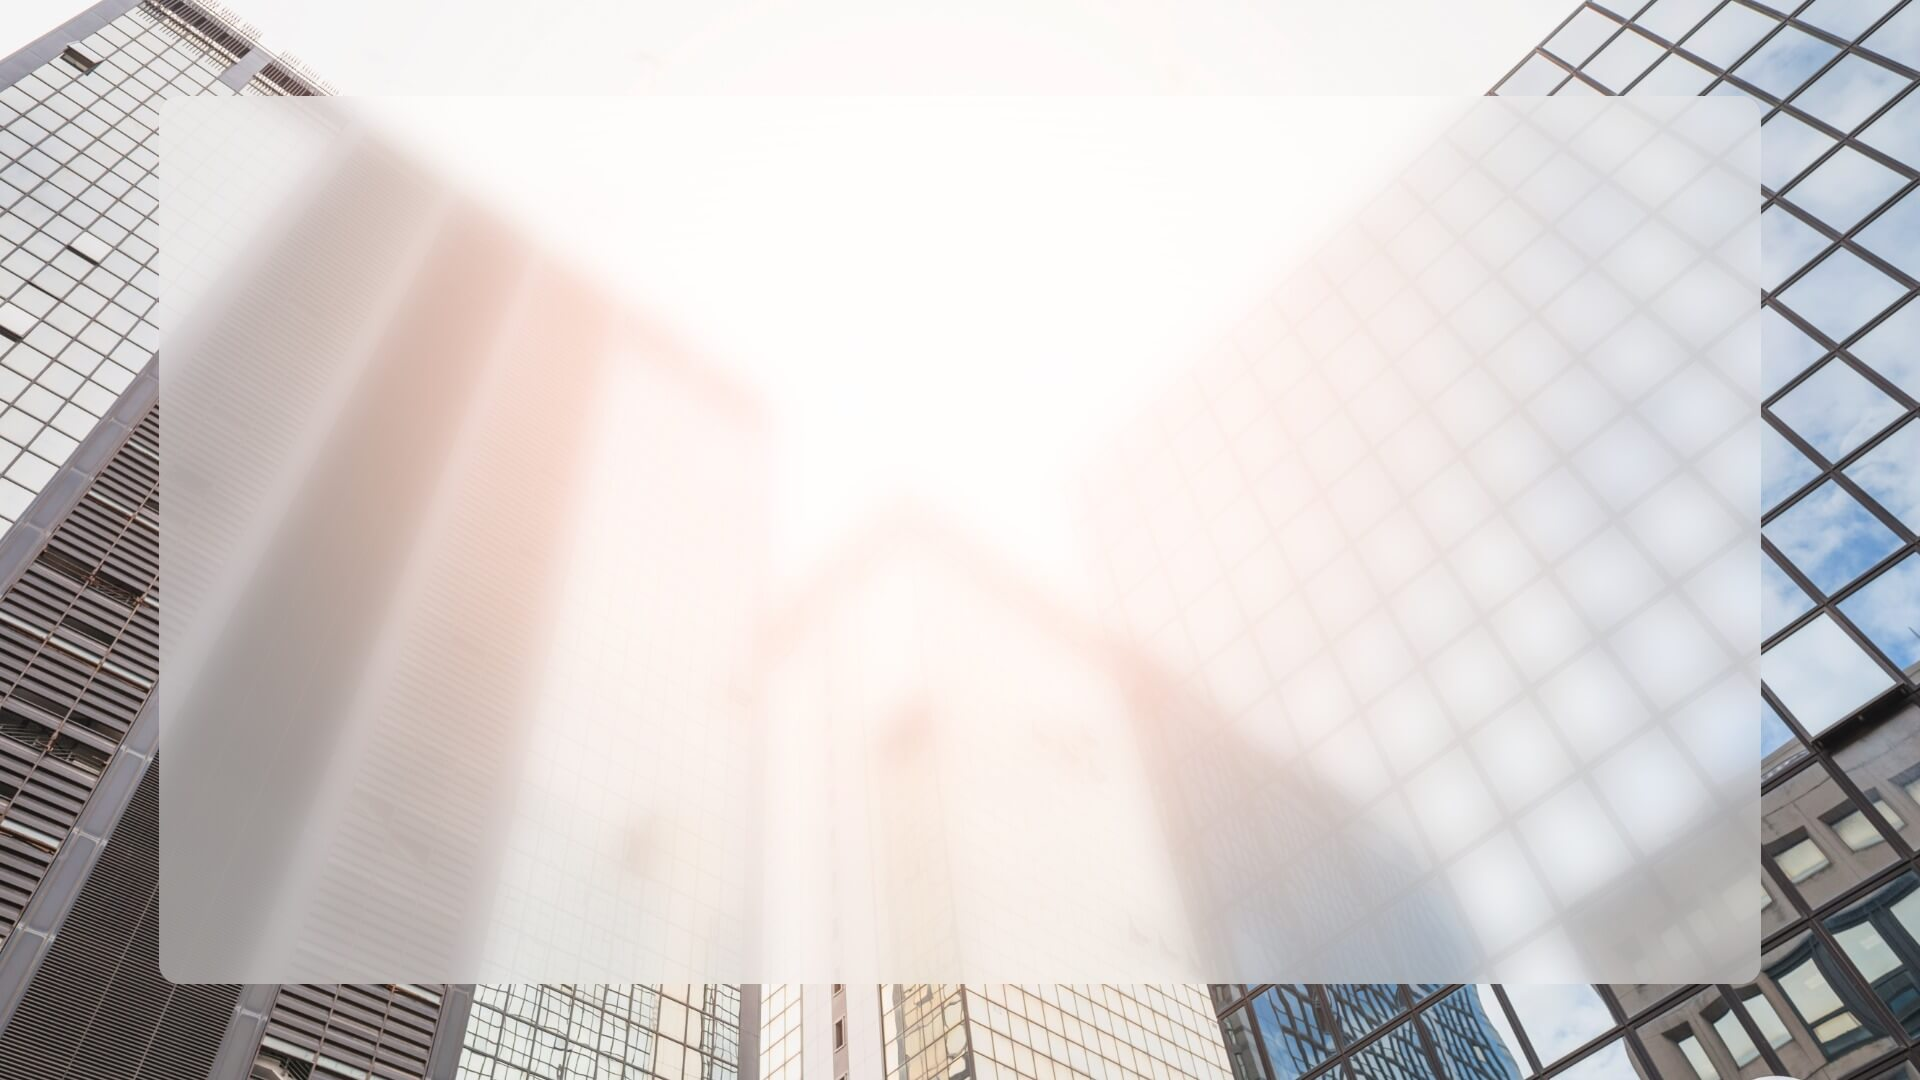
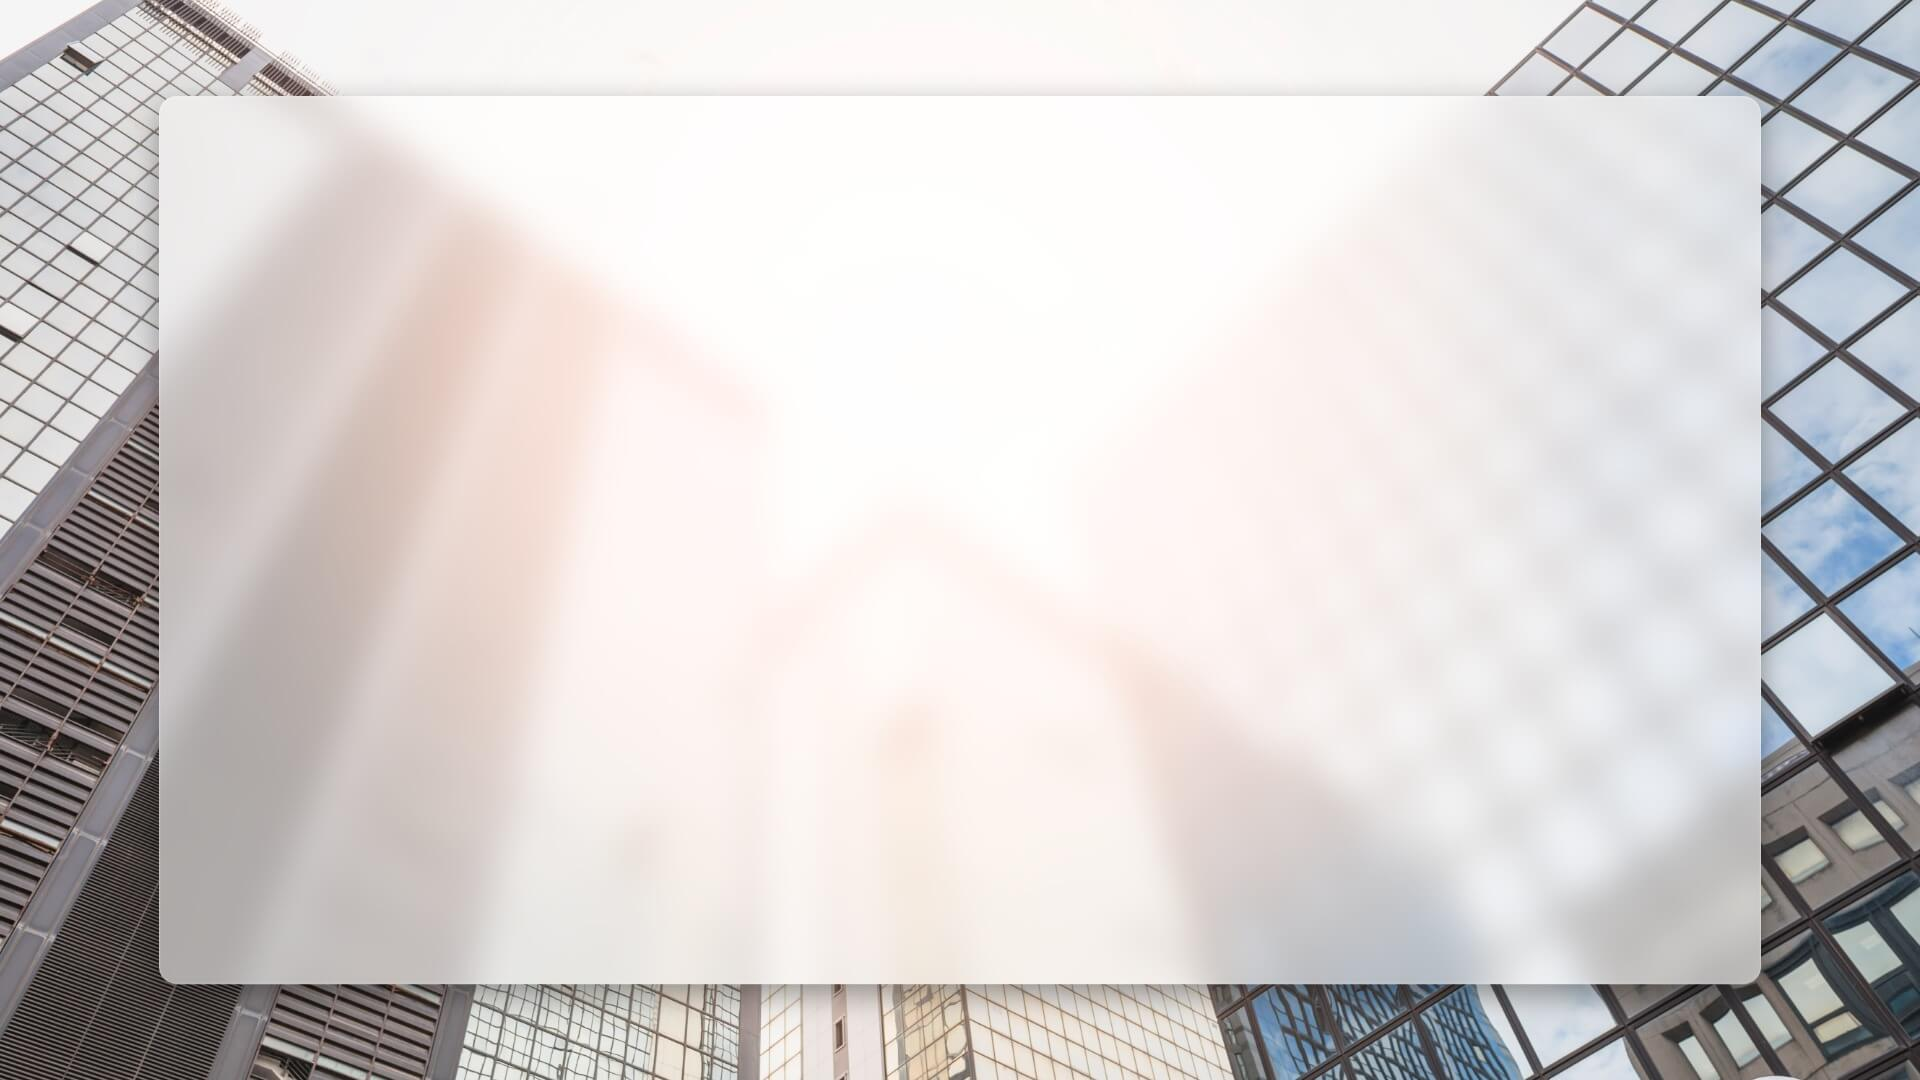
criado informativos para exibir no conteudo do player

diff --git a/app/assets/stylesheets/styles.css b/app/assets/stylesheets/styles.css
@@ -15,6 +15,13 @@ html, body {
   -webkit-user-select: none;
 }
 
+p {
+  border: 0px;
+  margin: 0px;
+  padding: 0px;
+  margin-bottom: 0.5em;
+}
+
 [ng\:cloak], [ng-cloak], [data-ng-cloak], [x-ng-cloak], .ng-cloak, .x-ng-cloak {
   display: none !important;
 }
@@ -130,7 +137,8 @@ html, body {
 
 /* --------------- PLAYER --------------- */
 .content-player .midia-main,
-.content-player .feed-main {
+.content-player .feed-main,
+.content-player .informativo-main {
   width: 100%;
   height: 100%;
   display: flex;
@@ -306,6 +314,97 @@ html, body {
 .content-player .player-item .playlist-content .fade-leave-to {
   opacity: 0;
 }*/
+
+/* --------------- INFORMATIVO --------------- */
+
+.content-player .informativo {
+  background-size: 100% 100%;
+  background-repeat: no-repeat;
+  position: relative;
+  overflow: hidden;
+}
+
+.content-player .informativo.layout-1 .conteudo {
+  display: flex;
+  flex-direction: column;
+  justify-content: center;
+  align-items: flex-start;
+  margin: 50px 50px 0;
+  height: 980px;
+}
+.content-player .informativo.layout-1 .conteudo .titulo {
+  line-height: 1;
+  padding: 60px 70px 20px;
+}
+.content-player .informativo.layout-1 .conteudo .titulo > div {
+  font-size: 50px;
+  font-weight: bold;
+}
+.content-player .informativo.layout-1 .conteudo .mensagem {
+  padding: 20px 70px 0;
+}
+.content-player .informativo.layout-1 .conteudo .mensagem > div {
+  font-size: 30px;
+}
+.content-player .informativo.layout-2 .conteudo {
+  margin: 63px 82px 0 725px;
+  height: 950px;
+  overflow: hidden;
+}
+.content-player .informativo.layout-2 .conteudo .titulo {
+  line-height: 1;
+  padding: 60px 70px 20px;
+}
+.content-player .informativo.layout-2 .conteudo .titulo > div {
+  font-size: 50px;
+  font-weight: bold;
+}
+.content-player .informativo.layout-2 .conteudo .mensagem {
+  padding: 20px 70px 0;
+}
+.content-player .informativo.layout-2 .conteudo .mensagem > div {
+  font-size: 30px;
+}
+.content-player .informativo.layout-3 .conteudo {
+  margin: 114px 628px 0 70px;
+  height: 810px;
+  overflow: hidden;
+}
+.content-player .informativo.layout-3 .conteudo .titulo {
+  line-height: 1;
+  padding: 60px 70px 20px;
+}
+.content-player .informativo.layout-3 .conteudo .titulo > div {
+  font-size: 50px;
+  font-weight: bold;
+}
+.content-player .informativo.layout-3 .conteudo .mensagem {
+  padding: 20px 70px 0;
+}
+.content-player .informativo.layout-3 .conteudo .mensagem > div {
+  font-size: 30px;
+}
+.content-player .informativo.layout-4 .conteudo {
+  margin: 96px 160px 0;
+  height: 890px;
+  overflow: hidden;
+}
+.content-player .informativo.layout-4 .conteudo .titulo {
+  line-height: 1;
+  padding: 60px 70px 20px;
+}
+.content-player .informativo.layout-4 .conteudo .titulo > div {
+  font-size: 50px;
+  font-weight: bold;
+}
+.content-player .informativo.layout-4 .conteudo .mensagem {
+  padding: 20px 70px 0;
+}
+.content-player .informativo.layout-4 .conteudo .mensagem > div {
+  font-size: 30px;
+}
+/* layout 4 */
+/* --------------- INFORMATIVO --------------- */
 
 /* --------------- PLAYER --------------- */
 

diff --git a/app/assets/templates/index.html b/app/assets/templates/index.html
@@ -132,6 +132,31 @@
                       </video>
                     </div>
                     <!-- midia -->
+
+                    <!-- informativo -->
+                    <div class="informativo-main" v-else-if="item.tipo_midia === 'informativo'">
+                      <div class="informativo" :class="item.mensagem.layout" :style="
+                        {
+                          'background-image': 'url(/images/informativos/' + item.mensagem.imagem + ')',
+                          'background-color': item.mensagem.cor_fundo,
+                        }
+                      ">
+                        <svg viewBox="0 0 1920 1080">
+                          <foreignObject height="100%" width="100%">
+                            <div class="conteudo">
+                              <div class="titulo" :style="{'color': item.mensagem.cor_titulo}">
+                                <div>{{item.titulo}}</div>
+                              </div>
+                              <div class="mensagem" :style="{'color': item.mensagem.cor_mensagem}">
+                                <div v-html="item.mensagem.texto"></div>
+                              </div>
+                            </div>
+                          </foreignObject>
+                        </svg>
+                      </div>
+                    </div>
+                    <!-- informativo -->
+
                   </div>
                 </transition>
 
